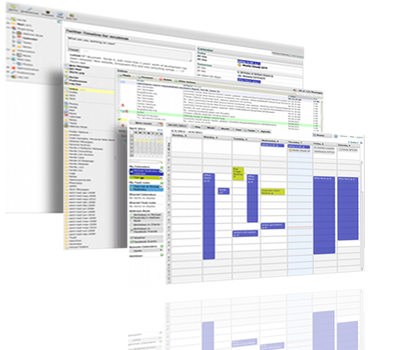
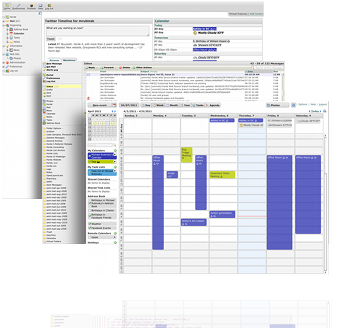
another take on h4 slider.
Feel free to use this one, or to revert and use the perspective-shifted version

diff --git a/css/horde.css b/css/horde.css
@@ -524,7 +524,7 @@ div.sliderview {
 }
 
 div.slide-horde4 {
-    background: url(../images/h4slider.png) no-repeat -30px 10px;
+    background: url(../images/h4slider.png) no-repeat 45px 1px;
 }
 div.slide-everywhere {
     background:url(../images/iphones.png) no-repeat 30px;
